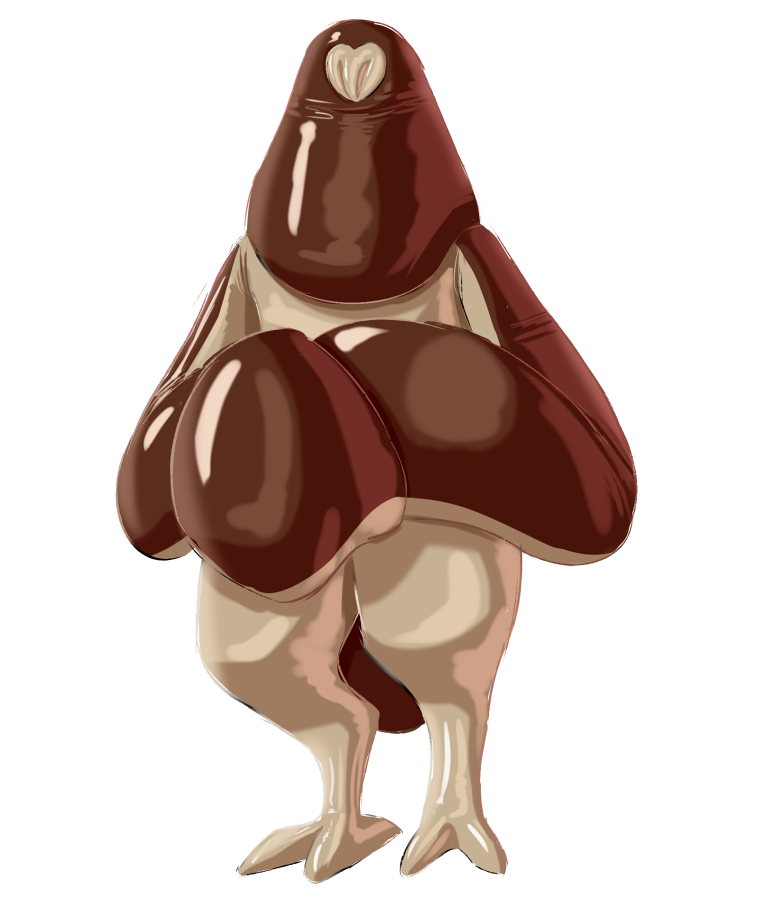
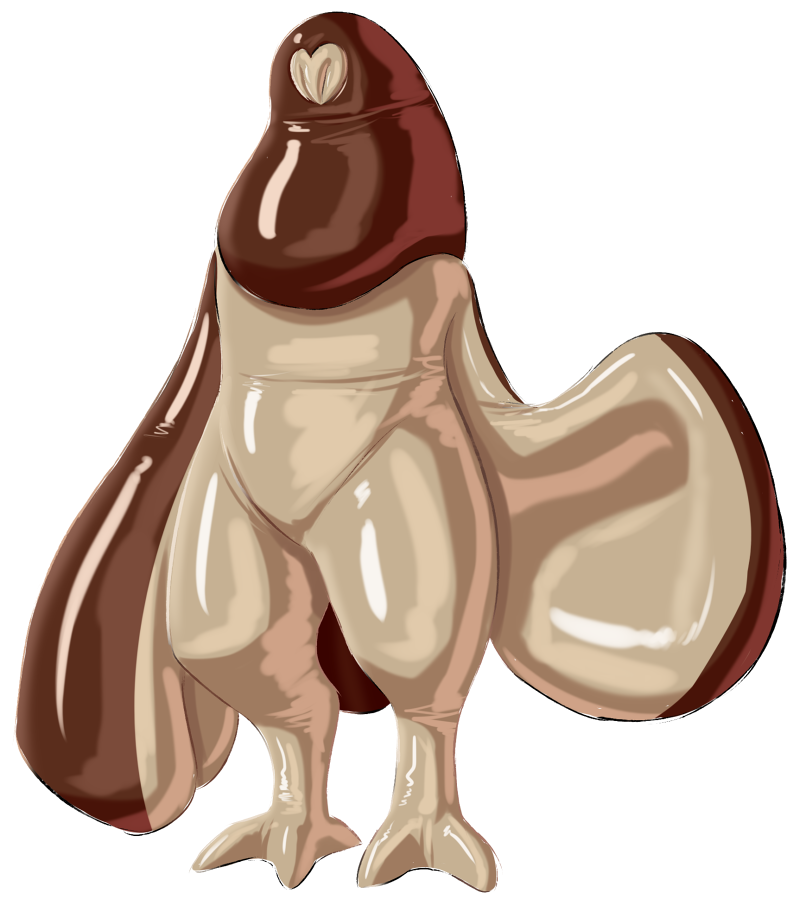
Improved squeaky owluar
-Replaced the squeaky owluar pic with something I'm much happier with

diff --git a/src/Pages/Guarians/Tabs/KnownGuarians/Guarians/owluar/owluar.tsx b/src/Pages/Guarians/Tabs/KnownGuarians/Guarians/owluar/owluar.tsx
@@ -58,6 +58,6 @@ export const owluar: GuarianInfo = {
         ref: latex,
       },
     ],
-    maxRefWidth: 766,
+    maxRefWidth: 806,
   },
 };
